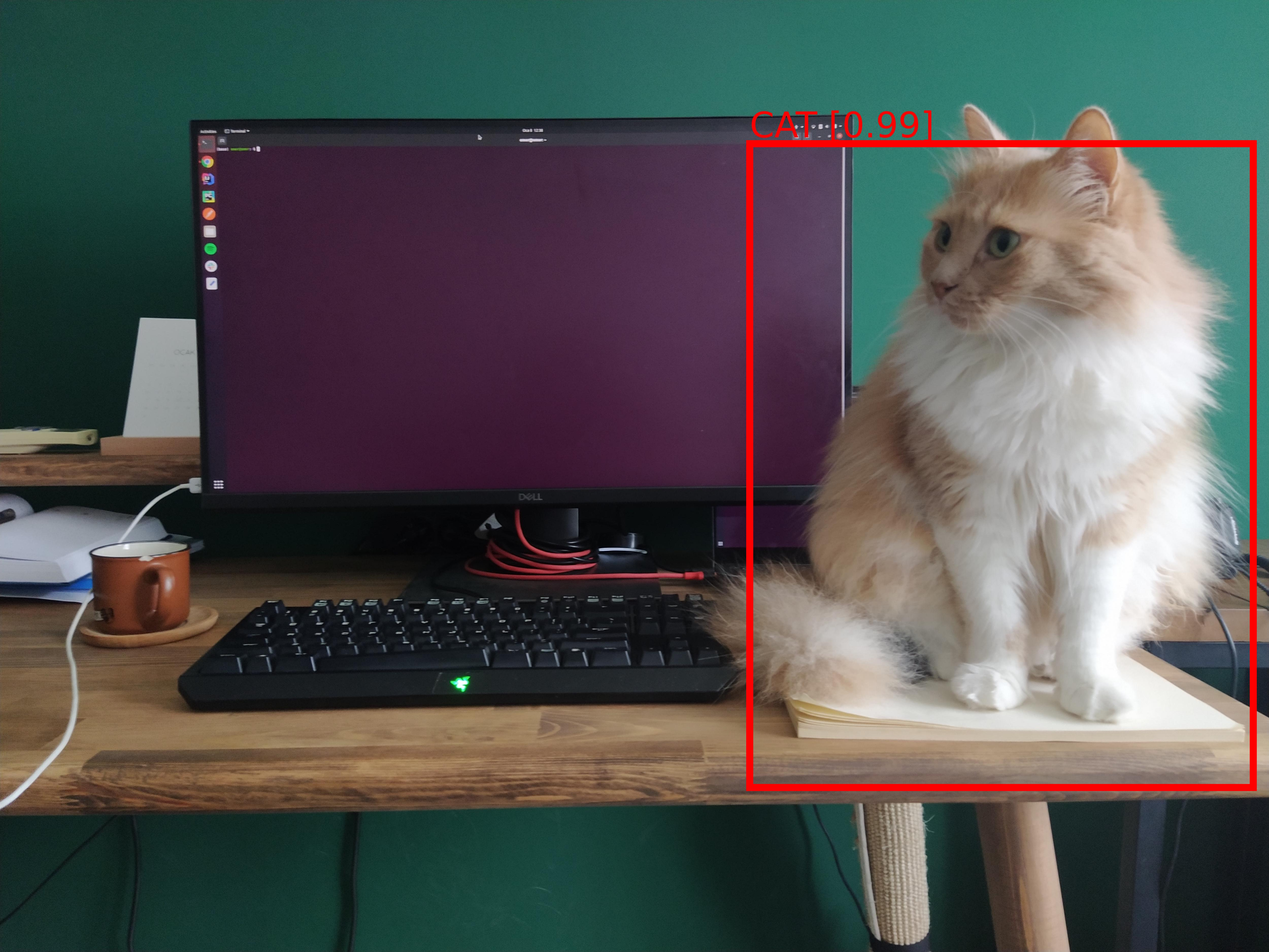
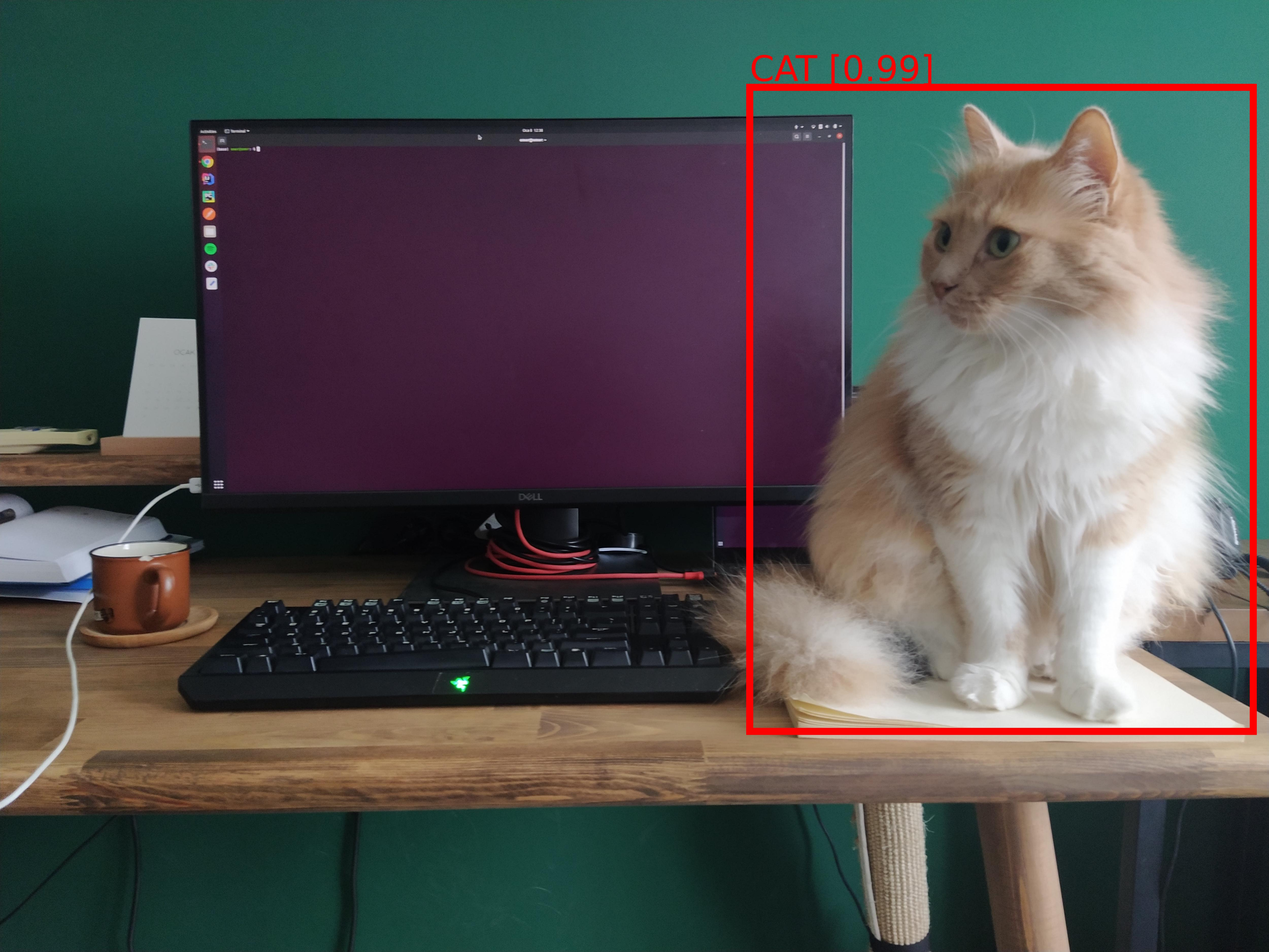
Fix min/max Y

Changed region(s): [[0.5616, 0.0624, 0.9984, 0.156], [0.5616, 0.7488, 0.9984, 0.8424]]

diff --git a/detector.py b/detector.py
@@ -1,3 +1,4 @@
+import itertools
 import os
 from typing import List, Dict, Set, Optional
 import numpy
@@ -32,22 +33,20 @@ class Detector:
 
         image: numpy.ndarray = self.adjust_image(image)
 
-        model_output: List[numpy.ndarray] = self.model.predict(image)
+        model_outputs: List[numpy.ndarray] = self.model.predict(image)
 
-        detections: List[Detection] = self.decode(model_output, width, height)
+        detections: List[Detection] = self.decode(model_outputs, width, height)
         detections: List[Detection] = self.filter_overlapping_detections(detections)
 
         return detections
 
-    def decode(self, model_output: List[numpy.ndarray], width: int, height: int) -> List[Detection]:
+    def decode(self, model_outputs: List[numpy.ndarray], width: int, height: int) -> List[Detection]:
         detections: List[Detection] = []
 
         nb_box = 3
 
-        for i in range(len(model_output)):
-            result: numpy.ndarray = model_output[i][0]
-
-            anchors: List[int] = ANCHORS[i]
+        for model_putput, anchors in zip(model_outputs, ANCHORS):
+            result = model_putput[0]
 
             grid_height, grid_width = result.shape[:2]
 
@@ -56,30 +55,26 @@ class Detector:
             result[..., 4:] = sigmoid(result[..., 4:])
             result[..., 5:] = result[..., 4][..., numpy.newaxis] * result[..., 5:]
 
-            for j in range(grid_height * grid_width):
-                row = j / grid_width
-                column = j % grid_width
+            for row, column in itertools.product(range(grid_height), range(grid_width)):
                 for b in range(nb_box):
                     scores: List[float] = result[int(row)][column][b][5:]
                     for index, score in enumerate(scores):
-                        if score > THRESHOLD:
-                            label: Optional[str] = self.index_label_dict.get(index)
-                            if label is not None:
-                                x, y, w, h = result[int(row)][int(column)][b][:4]
+                        label: Optional[str] = self.index_label_dict.get(index)
+                        if label is not None and score > THRESHOLD:
+                            x, y, w, h = result[int(row)][int(column)][b][:4]
 
-                                x = (column + x) / grid_width
-                                y = (row + y) / grid_height
+                            x = (column + x) / grid_width
+                            y = (row + y) / grid_height
 
-                                w = anchors[2 * b + 0] * numpy.exp(w) / WIDTH
-                                h = anchors[2 * b + 1] * numpy.exp(h) / HEIGHT
+                            w = anchors[2 * b + 0] * numpy.exp(w) / WIDTH
+                            h = anchors[2 * b + 1] * numpy.exp(h) / HEIGHT
 
-                                x_min = int((x - w / 2) * width)
-                                y_min = int((y - h / 2) * height)
-                                x_max = int((x + w / 2) * width)
-                                y_max = int((y + h / 2) * height)
+                            x_min = int((x - w / 2) * width)
+                            y_min = int((y - h / 2) * height)
+                            x_max = int((x + w / 2) * width)
+                            y_max = int((y + h / 2) * height)
 
-                                detection = Detection(label, score, x_min, y_min, x_max, y_max)
-                                detections.append(detection)
+                            detections.append(Detection(label, score, x_min, y_min, x_max, y_max))
 
         return detections
 

diff --git a/app.py b/app.py
@@ -1,14 +1,13 @@
 import json
-from typing import List
+from typing import List, Optional
 
 from PIL import Image
 from dotenv import load_dotenv
-from flask import Flask, request, abort, Response
+from flask import Flask, request, Response
 from werkzeug.datastructures import FileStorage
 
 from detector import Detector
 from detection import Detection
-
 
 load_dotenv()
 
@@ -19,15 +18,16 @@ detector = Detector({'cat'})
 
 @app.route('/detect', methods=['POST'])
 def detect():
-    if request.method == 'POST':
-        file: FileStorage = request.files.get('image')
+    # TODO: get file as numpy.ndarray or base64
+    file: Optional[FileStorage] = request.files.get('image')
 
-        image: Image = Image.open(file)
+    if file is None:
+        return Response(status=400)
 
-        detections: List[Detection] = detector.detect(image)
+    image: Image = Image.open(file)
 
-        response = json.dumps([detection.__dict__ for detection in detections])
+    detections: List[Detection] = detector.detect(image)
 
-        return Response(response=response, mimetype='application/json')
+    response = json.dumps([detection.__dict__ for detection in detections])
 
-    abort(404)
+    return Response(status=200, response=response, mimetype='application/json')

diff --git a/constant.py b/constant.py
@@ -8,7 +8,7 @@ ANCHORS: List[List[int]] = [
     [10, 13, 16, 30, 33, 23]
 ]
 THRESHOLD: float = 0.6
-INTERSECTION_THRESHOLD: float = 0.6
+INTERSECTION_THRESHOLD: float = 0.5
 INDEX_LABEL_DICT: Dict[int, str] = {
     0: 'person', 1: 'bicycle', 2: 'car', 3: 'motorbike', 4: 'aeroplane', 5: 'bus', 6: 'train', 7: 'truck', 8: 'boat',
     9: 'traffic light', 10: 'fire hydrant', 11: 'stop sign', 12: 'parking meter', 13: 'bench', 14: 'bird', 15: 'cat',

diff --git a/test.py b/test.py
@@ -38,7 +38,7 @@ def draw(file_path: str, detections: List[Detection]):
 
         axes.add_patch(rectangle)
 
-        label = '%s [%.2f]' % (detection.label.upper(), detection.score)
+        label = f'{detection.label.upper()} [{detection.score}]'
 
         pyplot.text(detection.x_min, detection.y_min - 20, label, color='red', fontdict={'size': 100})
 
